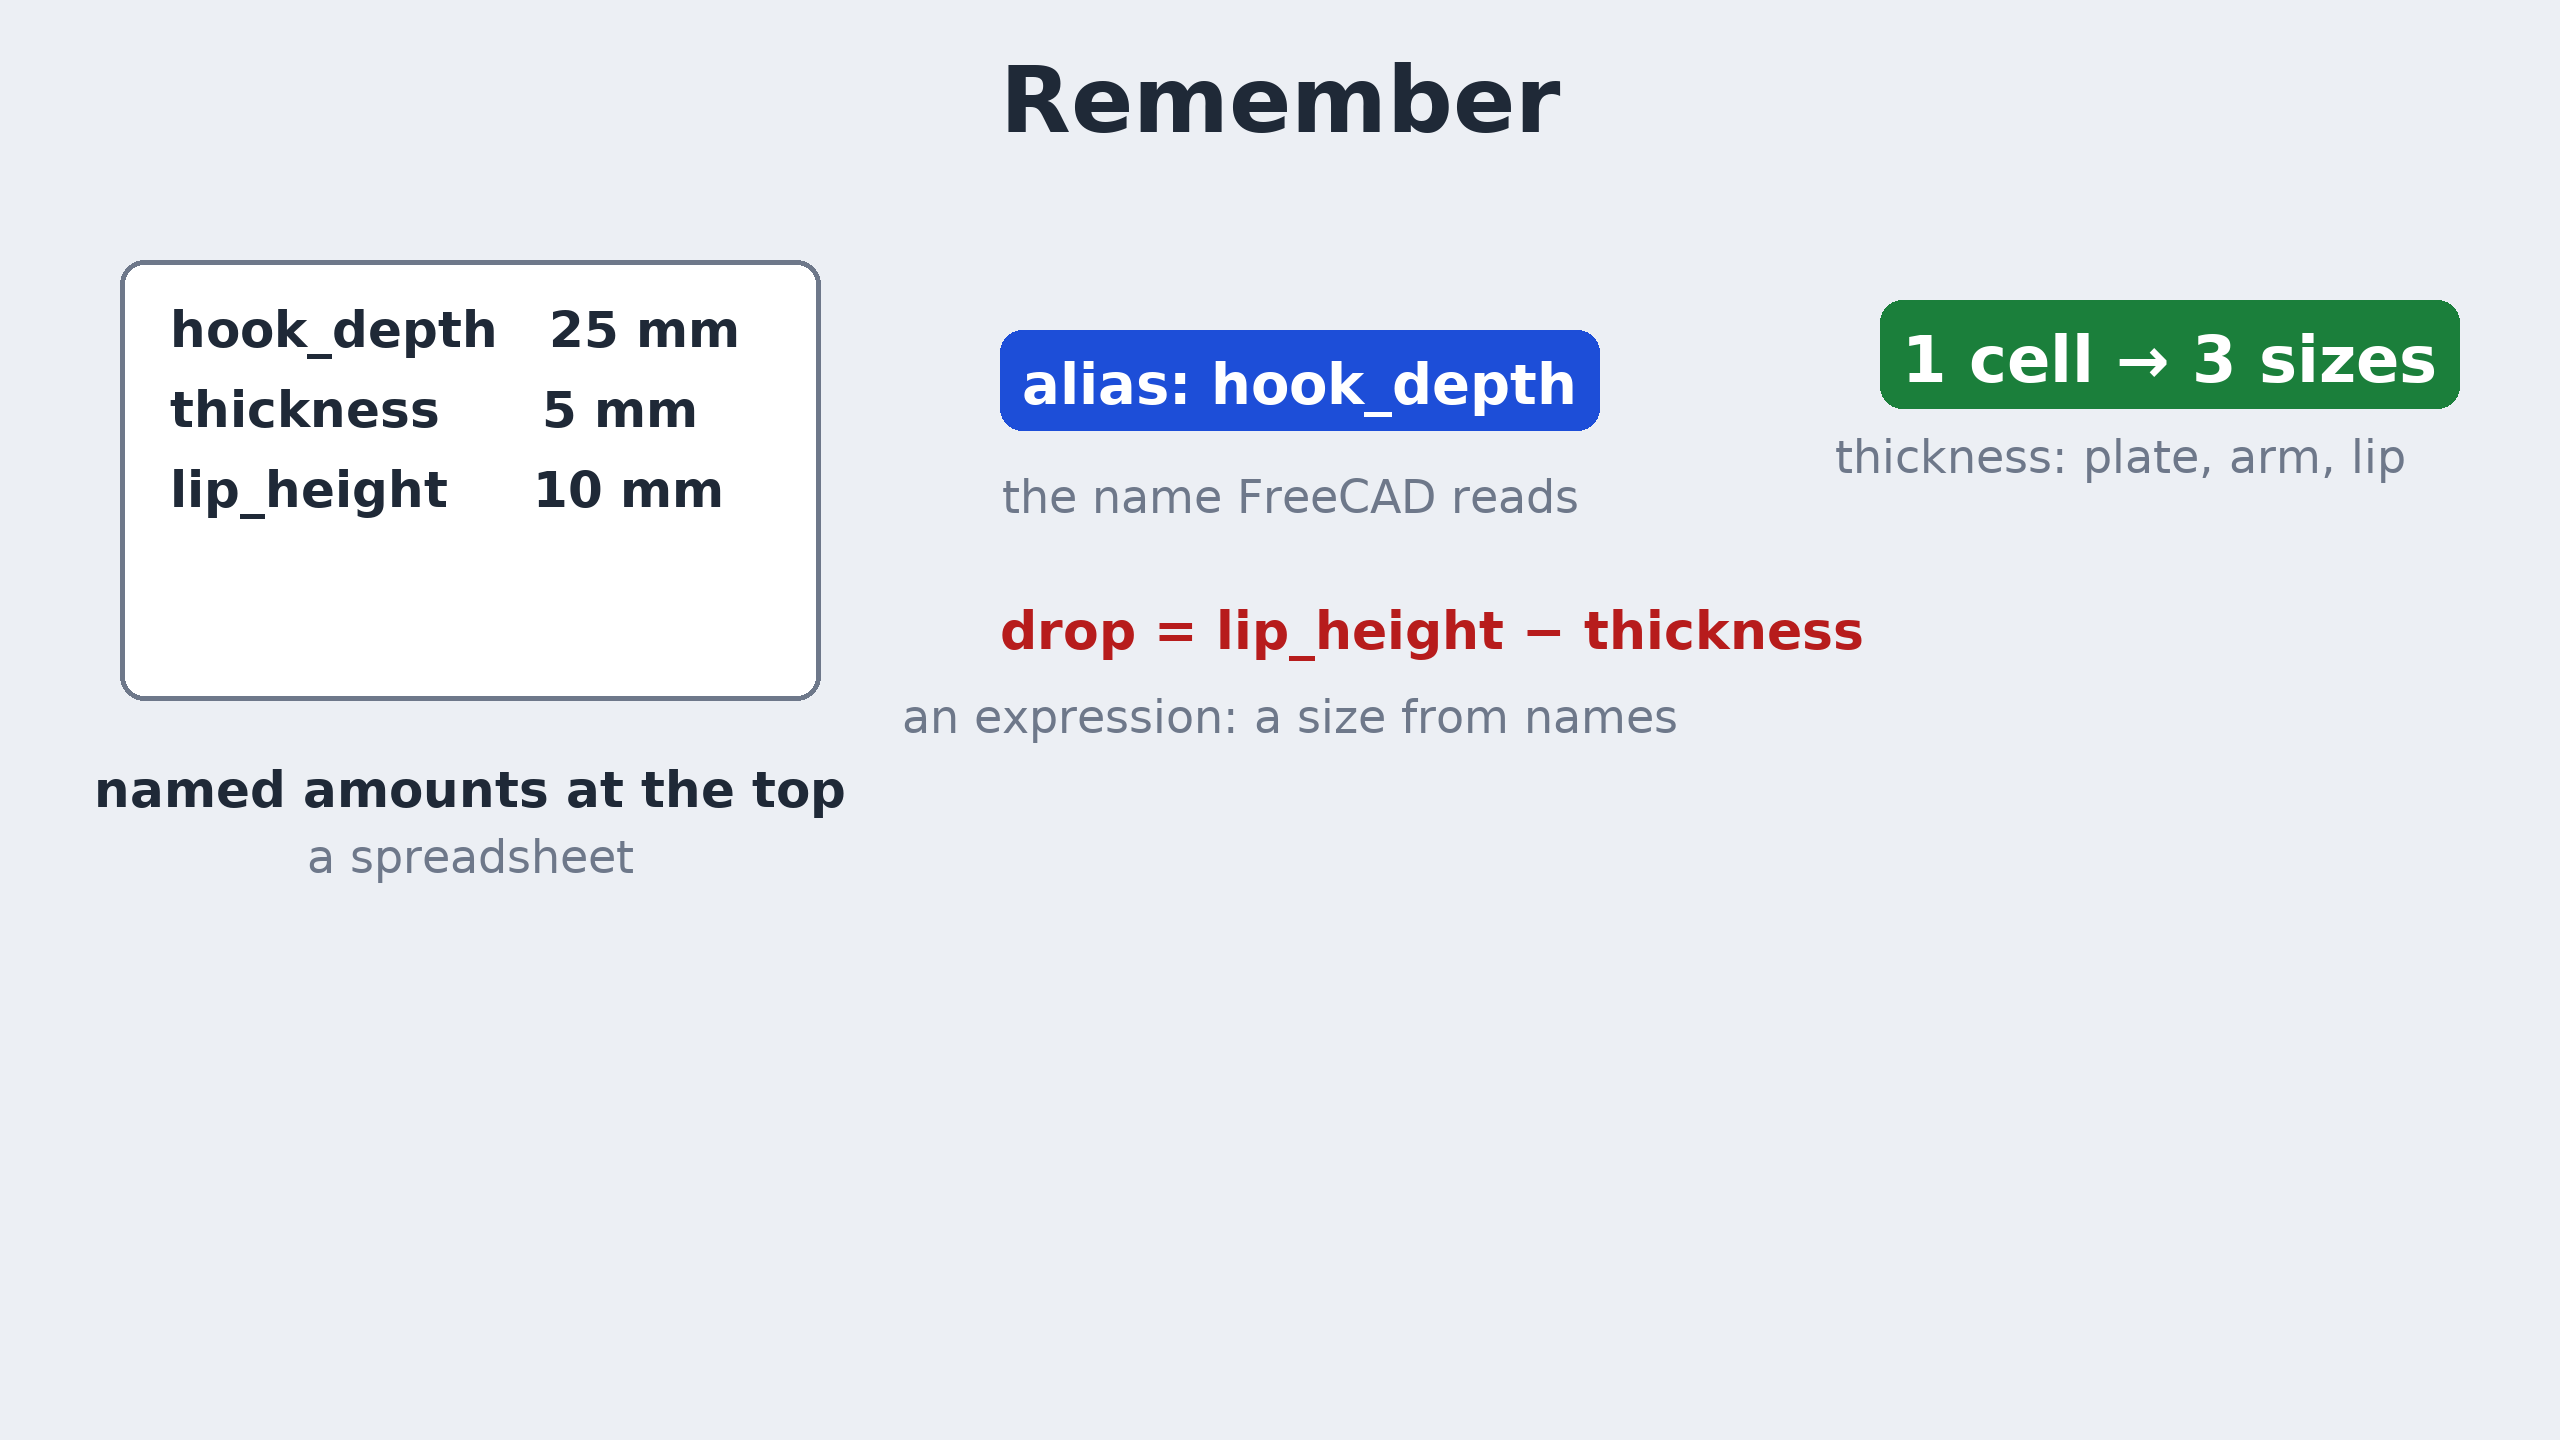
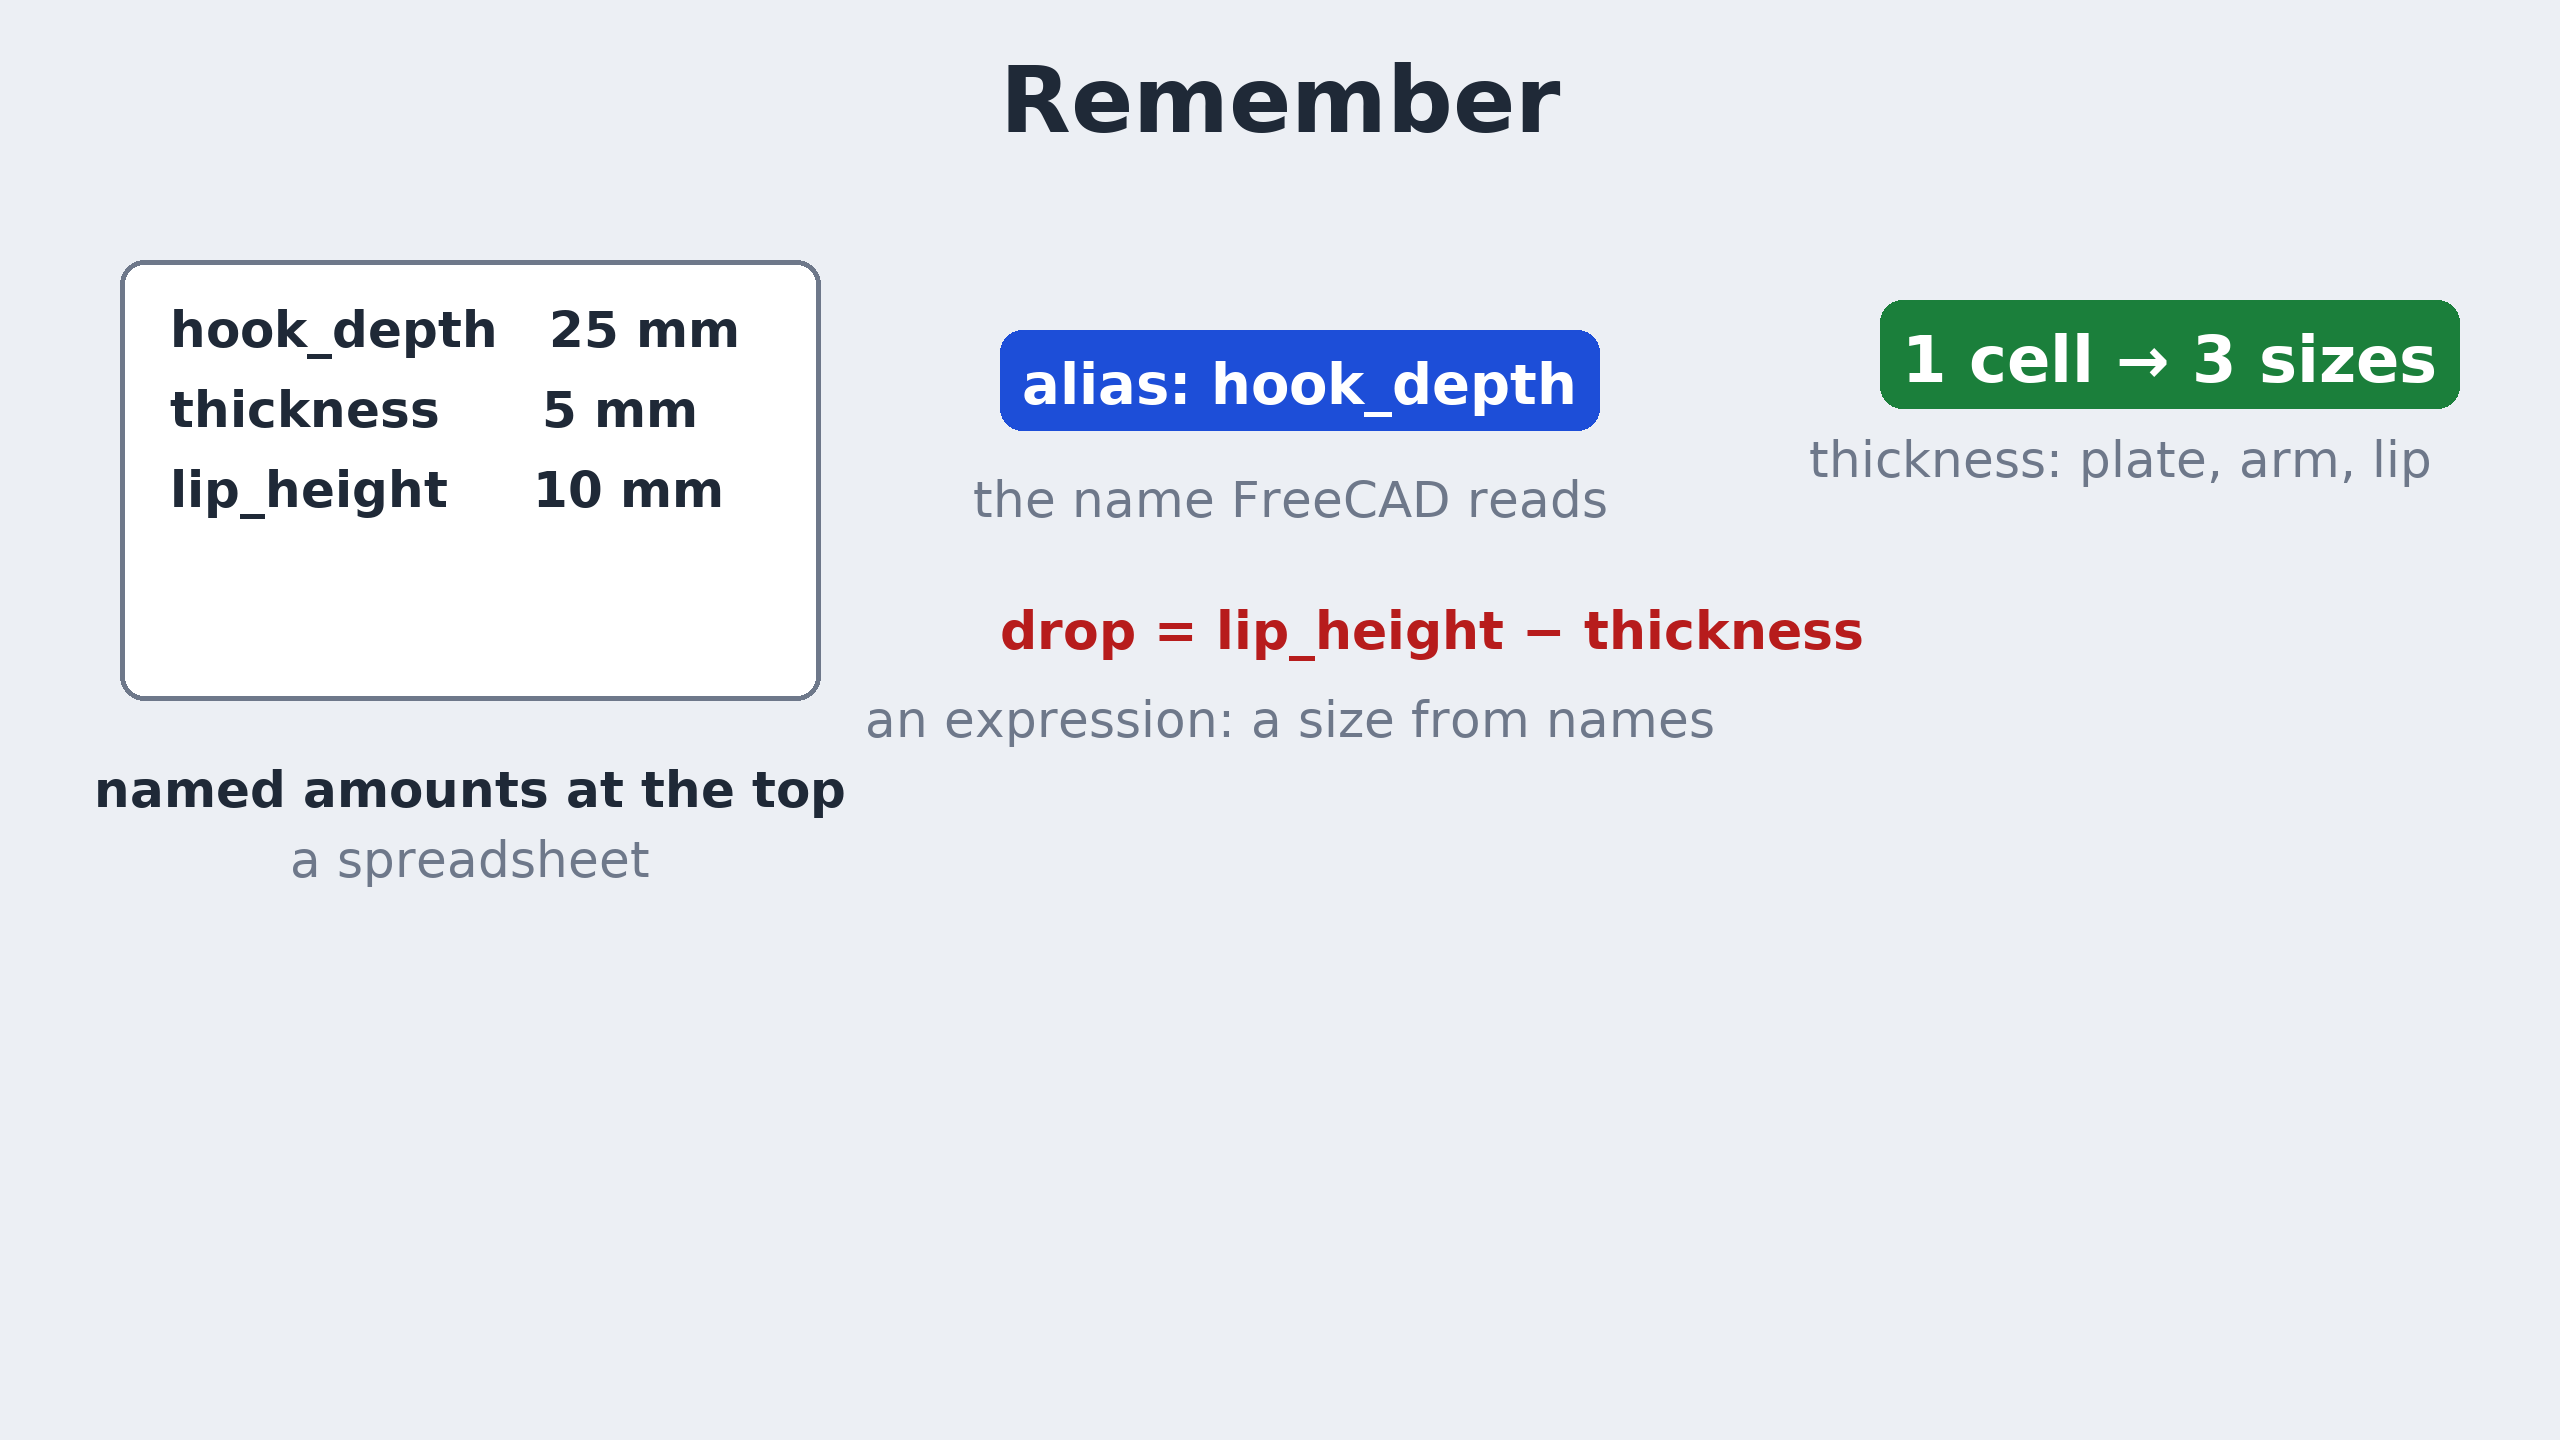
Lesson 3 cards after the script gate: recipe card with sugar = half the flour, one split on both worked-out cards, the two readings of 8 thick (ours vs A1, from the lab's corners), the comparison table from compare.json

diff --git a/video/draw_l3.py b/video/draw_l3.py
@@ -34,24 +34,26 @@ def jpoly(ox, oy, s, depth=25, t=5):
 
 
 def card_recipe(step):
-    """F3: a recipe card: named amounts at the top, steps that use the name; step 3 the amount changes, both steps follow."""
+    """F3: named amounts at the top; steps that use the name (one of them a sum: half the flour); step 3 the amount
+    changes and both steps follow (a preview of an expression)."""
     im, d = canvas(); header(d, 'A recipe card: amounts at the top')
-    d.rounded_rectangle((560, 230, 2000, 1300), radius=30, fill=PAPER, outline=GREY, width=6)
-    text(d, (640, 290), 'Amounts', 72, GREY)
+    d.rounded_rectangle((420, 230, 2140, 1260), radius=30, fill=PAPER, outline=GREY, width=6)
+    text(d, (500, 290), 'Amounts', 72, GREY)
     amt = '400 g' if step >= 3 else '200 g'
-    d.rounded_rectangle((640, 400, 1500, 520), radius=20, fill=(255, 243, 214) if step >= 3 else (241, 245, 249),
+    d.rounded_rectangle((500, 400, 1360, 520), radius=20, fill=(255, 243, 214) if step >= 3 else (241, 245, 249),
                         outline=AMBER if step >= 3 else GREY, width=5)
-    text(d, (680, 460), 'flour', 76, INK, anchor='lm'); text(d, (1460, 460), amt, 76, AMBER if step >= 3 else INK, anchor='rm')
+    text(d, (540, 460), 'flour', 76, INK, anchor='lm'); text(d, (1320, 460), amt, 76, AMBER if step >= 3 else INK, anchor='rm')
     if step >= 2:
-        text(d, (640, 620), 'Steps', 72, GREY)
+        text(d, (500, 620), 'Steps', 72, GREY)
         hl = GREEN if step >= 3 else INK
-        text(d, (680, 760), '2. add the flour', 76, hl)
-        text(d, (680, 900), '3. stir', 64, GREY, R)
-        text(d, (680, 1040), '4. add the rest of the flour', 76, hl)
+        text(d, (540, 760), '2. add the flour', 72, hl)
+        text(d, (540, 900), '3. stir', 60, GREY, R)
+        text(d, (540, 1040), '4. add sugar: half the flour', 72, hl)
         if step >= 3:
-            for y in (760, 1040):
-                text(d, (1940, y + 40), '← 400 g', 64, GREEN, anchor='rm')
-            chip(d, (W / 2, 1330), 'change the amount once: every step that uses it follows', 56, PAPER, GREEN, anchor='m')
+            text(d, (2080, 790), '→ 400 g', 64, GREEN, anchor='rm')
+            text(d, (2080, 1070), '→ 200 g', 64, GREEN, anchor='rm')
+    if step >= 3:
+        chip(d, (W / 2, 1300), 'change the flour once: every step that uses it follows', 56, PAPER, GREEN, anchor='m')
     save(im, f'card-recipe-{step}.png')
 
 
@@ -93,7 +95,7 @@ def card_expected(kind):
         e = exp(40, 5)
         im, dd = canvas(); header(dd, 'Worked out first: 40 deep')
         dd.polygon(jpoly(260, 1250, 15, 40, 5), fill=(176, 190, 212), outline=INK, width=6)
-        rows = [('back plate 5 x 60 = 300', INK), ('arm 35 x 5 = 175', GREEN), ('lip 5 x 5 = 25', AMBER)]
+        rows = [('back plate 5 x 60 = 300', INK), ('arm 30 x 5 = 150', GREEN), ('lip 5 x 10 = 50', AMBER)]
         tag = 'box 40 x 20 x 60: 15 deeper'
     else:
         e = exp(40, 8)
@@ -121,20 +123,71 @@ def card_recap(step):
         text(d, (170, 300), 'hook_depth   25 mm', 50); text(d, (170, 380), 'thickness      5 mm', 50)
         text(d, (170, 460), 'lip_height     10 mm', 50)
         text(d, (470, 760), 'named amounts at the top', 50, INK, anchor='ma')
-        text(d, (470, 830), 'a spreadsheet', 46, GREY, R, anchor='ma')
+        text(d, (470, 830), 'a spreadsheet', 50, GREY, R, anchor='ma')
     if step >= 2:
         chip(d, (1000, 330), 'alias: hook_depth', 56, PAPER, BLUE)
-        text(d, (1290, 470), 'the name FreeCAD reads', 46, GREY, R, anchor='ma')
+        text(d, (1290, 470), 'the name FreeCAD reads', 50, GREY, R, anchor='ma')
     if step >= 3:
         text(d, (1000, 600), 'drop = lip_height − thickness', 52, RED)
-        text(d, (1290, 690), 'an expression: a size from names', 46, GREY, R, anchor='ma')
+        text(d, (1290, 690), 'an expression: a size from names', 50, GREY, R, anchor='ma')
     if step >= 4:
         chip(d, (1880, 300), '1 cell → 3 sizes', 64, PAPER, GREEN)
-        text(d, (2120, 430), 'thickness: plate, arm, lip', 46, GREY, R, anchor='ma')
+        text(d, (2120, 430), 'thickness: plate, arm, lip', 50, GREY, R, anchor='ma')
     if step >= 5:
         chip(d, (W / 2, 1050), 'right or wrong, the part follows: check the first build (8,500 mm³)', 56, PAPER, RED,
              anchor='m')
     save(im, f'card-recap-{step}.png' if step < 5 else 'card-recap.png')
+
+
+def card_a1_vs_ours():
+    """F27: the two readings of "8 thick", from the lab's own corners (hand thick8 and run A1 after message 3)."""
+    import json
+    L3 = os.path.join(LAB, 'out', 'l3')
+    hand = json.load(open(os.path.join(L3, 'hand', 'measure-thick8.json')))
+    a1 = json.load(open(os.path.join(L3, 'runs', 'A1', 'measure-after3.json')))
+    im, d = canvas(); header(d, '"8 thick": two readings')
+    for k, (m, title, sub, col) in enumerate(((hand, 'with names (ours, B1, B2)', 'lip 8 wide x 10 high', GREEN),
+                                               (a1, 'without names (A1)', 'lip 5 wide x 13 high', AMBER))):
+        ox, oy, sc = 180 + k * 1240, 1150, 12
+        pts = [(ox + x * sc, oy - y * sc) for x, y in m['sketches'][0]['corners_xy']]
+        d.polygon(pts, fill=(176, 190, 212), outline=INK, width=6)
+        part = [r for r in m['solids'] if not r.get('in_list')][-1]
+        text(d, (ox, 300), title, 60, col)
+        text(d, (ox + 520, 700), sub, 50, INK)
+        text(d, (ox + 520, 790), '%s mm³' % format(int(round(part['volume_mm3'])), ','), 70, col)
+    chip(d, (W / 2, 1300), 'the name decided what "thickness" means', 56, PAPER, INK, anchor='m')
+    save(im, 'card-a1-vs-ours.png')
+
+
+def card_compare():
+    """F27: the comparison rows, from out/l3/compare.json (three columns, 48 px+)."""
+    import json
+    c = json.load(open(os.path.join(LAB, 'out', 'l3', 'compare.json')))
+    r = c['runs']
+
+    def v(run, st):
+        return format(int(round(r[run]['parts'][st]['volume_mm3'])), ',')
+    im, d = canvas(); header(d, 'Side by side')
+    cols = [(860, 'by hand'), (1480, 'with the sentence'), (2140, 'without it')]
+    subs = ['', '2 runs: B1, B2', '1 run: A1']
+    for (x, t), sub in zip(cols, subs):
+        text(d, (x, 230), t, 60, INK, anchor='ma')
+        if sub:
+            text(d, (x, 305), sub, 48, GREY, R, anchor='ma')
+    rows = [('names', '5', '5 · 5', 'none'),
+            ('first build', '8,500', '%s · %s' % (v('B1', 'first'), v('B2', 'first')), v('A1', 'first')),
+            ('40 deep', '10,000', '%s · %s' % (v('B1', 'after2'), v('B2', 'after2')), v('A1', 'after2') + ' (redrawn)'),
+            ('8 thick', '15,040', '%s · %s' % (v('B1', 'after3'), v('B2', 'after3')), v('A1', 'after3')),
+            ('one cell each', 'yes', 'yes · yes', 'no')]
+    for k, row in enumerate(rows):
+        y = 430 + k * 160
+        d.line((120, y - 30, 2440, y - 30), fill=(205, 210, 220), width=3)
+        text(d, (140, y + 30), row[0], 56, GREY, anchor='lm')
+        for (x, _), val in zip(cols, row[1:]):
+            colr = AMBER if val.startswith('15,220') or val == 'no' or val == 'none' else INK
+            text(d, (x, y + 30), val, 56, colr, anchor='mm')
+    chip(d, (W / 2, 1300), "no-AI replays: B1 8,500 · 10,000 · 15,040 · A1 … 15,220", 52, PAPER, INK, anchor='m')
+    save(im, 'card-compare.png')
 
 
 if __name__ == '__main__':
@@ -145,3 +198,4 @@ if __name__ == '__main__':
     card_expected('depth40'); card_expected('thick8')
     for n in range(1, 6):
         card_recap(n)
+    card_a1_vs_ours(); card_compare()
